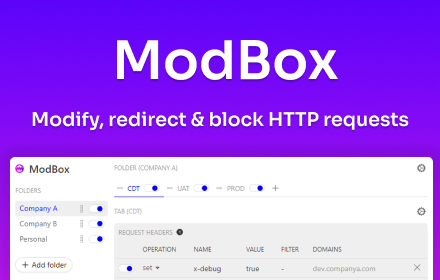
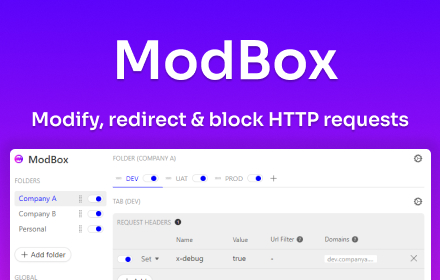
feature: ux cleanup

diff --git a/src/components/Tab.vue b/src/components/Tab.vue
@@ -65,9 +65,7 @@
       <div class="field mb20">
         <label class="field__label">
           Tab request domains
-          <Tooltip>
-            Single or comma separated domains
-          </Tooltip>
+          <Tooltip> Single or comma separated domains </Tooltip>
         </label>
         <input
           class="field__input"
@@ -103,13 +101,16 @@
           <th></th>
           <th>Name</th>
           <th>Value</th>
-          <th>Filter</th>
+          <th>
+            Url Filter
+            <Tooltip>
+              The pattern which is matched against the network request url
+            </Tooltip>
+          </th>
           <th>
             Domains
-            
-            <Tooltip>
-              Single or comma separated domains
-            </Tooltip>
+
+            <Tooltip> Single or comma separated domains </Tooltip>
           </th>
           <th></th>
         </tr>
@@ -126,7 +127,7 @@
             </button>
           </td>
           <td>
-            <Dropdown v-model="header.operation" />
+            <Dropdown v-model="header.operation" :options="operationOptions" />
           </td>
           <td :colspan="header.operation !== 'remove' ? 1 : 2">
             <Editor v-model="header.name" placeholder="Header name" />
@@ -201,11 +202,19 @@
       <table class="table" v-if="tab.responseHeaders?.length">
         <tr>
           <th></th>
-          <th>Operation</th>
+          <th></th>
           <th>Name</th>
           <th>Value</th>
-          <th>Filter</th>
-          <th>Domains</th>
+          <th>
+            Url Filter
+            <Tooltip>
+              The pattern which is matched against the network request url
+            </Tooltip>
+          </th>
+          <th>
+            Domains
+            <Tooltip>Single or comma separated domains</Tooltip>
+          </th>
           <th></th>
         </tr>
         <tr v-for="header in tab.responseHeaders">
@@ -221,7 +230,7 @@
             </button>
           </td>
           <td>
-            <Dropdown v-model="header.operation" />
+            <Dropdown v-model="header.operation" :options="operationOptions" />
           </td>
           <td :colspan="header.operation !== 'remove' ? 1 : 2">
             <Editor v-model="header.name" placeholder="Header name" />
@@ -240,6 +249,7 @@
               v-model="header.condition.requestDomains"
               placeholder="Request domains"
               :fallback="tab.requestDomains"
+              :domains="true"
             />
           </td>
           <td class="table__short text-right">
@@ -295,21 +305,16 @@
       <table v-if="tab.blockedRequests?.length" class="table">
         <tr>
           <th class="table__short"></th>
-          <th>Url Filter</th>
-          <th>Domains</th>
-          <th title="Block document">
-            <svg
-              xmlns="http://www.w3.org/2000/svg"
-              width="16"
-              height="16"
-              fill="currentColor"
-              class="bi bi-ban"
-              viewBox="0 0 16 16"
-            >
-              <path
-                d="M15 8a6.97 6.97 0 0 0-1.71-4.584l-9.874 9.875A7 7 0 0 0 15 8M2.71 12.584l9.874-9.875a7 7 0 0 0-9.874 9.874ZM16 8A8 8 0 1 1 0 8a8 8 0 0 1 16 0"
-              />
-            </svg>
+          <th>Type</th>
+          <th>
+            Url Filter
+            <Tooltip>
+              The pattern which is matched against the network request url
+            </Tooltip>
+          </th>
+          <th>
+            Domains
+            <Tooltip> Single or comma separated domains</Tooltip>
           </th>
           <th class="table__short"></th>
         </tr>
@@ -326,7 +331,14 @@
             </button>
           </td>
           <td>
+            <Dropdown
+              v-model="request.condition.document"
+              :options="blockOptions"
+            />
+          </td>
+          <td>
             <Editor
+              v-if="!request.condition.document"
               v-model="request.condition.urlFilter"
               placeholder="urlFilter"
               :locked="request.condition.document"
@@ -337,27 +349,8 @@
               v-model="request.condition.requestDomains"
               placeholder="Request domains"
               :fallback="tab.requestDomains"
+              :domains="true"
             />
-          </td>
-          <td>
-            <button
-              class="checkbox"
-              @click="request.condition.document = !request.condition.document"
-              :class="{ 'checkbox--active': request.condition.document }"
-            >
-              <svg
-                xmlns="http://www.w3.org/2000/svg"
-                width="16"
-                height="16"
-                fill="currentColor"
-                class="bi bi-check-lg"
-                viewBox="0 0 16 16"
-              >
-                <path
-                  d="M12.736 3.97a.733.733 0 0 1 1.047 0c.286.289.29.756.01 1.05L7.88 12.01a.733.733 0 0 1-1.065.02L3.217 8.384a.757.757 0 0 1 0-1.06.733.733 0 0 1 1.047 0l3.052 3.093 5.4-6.425z"
-                />
-              </svg>
-            </button>
           </td>
           <td class="table__short text-right">
             <button class="btn-icon" @click="deleteBlockRequest(request)">
@@ -408,9 +401,20 @@
       <table v-if="tab.redirectRequests?.length" class="table">
         <tr>
           <th class="table__short"></th>
-          <th>Url Filter</th>
-          <th>Domains</th>
-          <th>Url</th>
+          <th>
+            Url Filter
+            <Tooltip>
+              The pattern which is matched against the network request url
+            </Tooltip>
+          </th>
+          <th>
+            Domains
+            <Tooltip> Single or comma separated domains</Tooltip>
+          </th>
+          <th>
+            Destination
+            <Tooltip> An absolute destination Url </Tooltip>
+          </th>
           <th class="table__short"></th>
         </tr>
         <tr v-for="request in tab.redirectRequests">
@@ -436,6 +440,7 @@
               v-model="request.condition.requestDomains"
               placeholder="Request domains"
               :fallback="tab.requestDomains"
+              :domains="true"
             />
           </td>
           <td>
@@ -498,6 +503,28 @@ const emit = defineEmits(["deleteTab", "cloneTab"]);
 
 const { tab } = toRefs(props);
 const tabName: Ref<HTMLInputElement | null> = ref(null);
+
+const operationOptions = [
+  {
+    label: "Set",
+    value: "set",
+  },
+  {
+    label: "Remove",
+    value: "remove",
+  },
+];
+
+const blockOptions = [
+  {
+    label: "Assets",
+    value: false,
+  },
+  {
+    label: "Domain",
+    value: true,
+  },
+];
 
 /**
  * reactive

diff --git a/src/components/Dropdown.vue b/src/components/Dropdown.vue
@@ -1,28 +1,61 @@
 <template>
   <div ref="root" class="dropdown" :class="{ 'dropdown--open': isOpen }">
     <button @click="toggle" class="dropdown__trigger">
-      {{ model || "set" }}
+      {{ defaultOption?.label }}
       <svg xmlns="http://www.w3.org/2000/svg" width="16" height="16" fill="currentColor" class="bi bi-caret-down-fill" viewBox="0 0 16 16">
         <path d="M7.247 11.14 2.451 5.658C1.885 5.013 2.345 4 3.204 4h9.592a1 1 0 0 1 .753 1.659l-4.796 5.48a1 1 0 0 1-1.506 0z"/>
       </svg>
     </button>
     <div v-show="isOpen" class="dropdown__menu">
-      <button @click="set('set')" class="dropdown__menu__item" :class="{'dropdown__menu__item--active' : model === 'set'}">set</button>
-      <button @click="set('remove')" class="dropdown__menu__item" :class="{'dropdown__menu__item--active' : model === 'remove'}">
-        remove
+      <button v-for="option in options" @click="set(option.value)" class="dropdown__menu__item" :class="{'dropdown__menu__item--active' : model === option.value}">
+        {{ option.label }}
       </button>
     </div>
   </div>
 </template>
 
 <script setup lang="ts">
-import { ref } from "vue";
-import type { Ref } from "vue";
+import { ref, toRefs, computed } from "vue";
+import type { Ref, PropType } from "vue";
 
 const model = defineModel();
 const root: Ref<HTMLElement | null> = ref(null);
 const isOpen = ref(false);
 
+interface Option {
+  label: string,
+  value: string | boolean
+}
+
+const props = defineProps({
+  options: {
+    type:  Array as PropType<Option[]>,
+    required: true
+  }
+});
+
+const propRefs = toRefs(props);
+const options = propRefs.options;
+
+const defaultOption = computed(() => {
+  // if(!options) {
+  //   return {
+  //     label: "empty",
+  //     value: "empty"
+  //   }
+  // }
+  // console.log(model.value);
+  if(typeof model.value !== "undefined" && model.value !== "") {
+    return options.value.find(option => option.value === model.value)
+  }
+  
+  return options.value[0]
+
+  // return {
+  //     label: "empty",
+  //     value: "empty"
+  //   }
+})
 
 /**
  * functions
@@ -49,7 +82,7 @@ function outsideClick(e: any) {
   }
 }
 
-function set(val: string) {
+function set(val: string | boolean) {
   model.value = val;
   isOpen.value = false;
 }

diff --git a/src/style.scss b/src/style.scss
@@ -332,7 +332,9 @@ a {
   position: relative;
 
   &--large {
-    padding: 20px;
+    padding: 10px;
+    background-color: transparent;
+    border: 1px solid #ddd;
   }
   
   &__close {
@@ -689,6 +691,7 @@ a {
     text-align: left;
     padding-bottom: 10px;
     border-bottom: 1px solid #ddd;
+    white-space: nowrap;
 
     a {
       color: #333;
@@ -744,7 +747,7 @@ a {
     color: #333;
     cursor: pointer;
     transition: all ease 0.2s;
-    padding: 6px 0;
+    padding: 4px 0;
     background: transparent;
     text-align: left;
     display: block;
@@ -867,6 +870,7 @@ a {
   position: relative;
   display: inline-block;
   vertical-align: middle;
+  white-space: wrap;
 
   &__trigger {
     display: inline-block;
@@ -881,8 +885,8 @@ a {
     // line-height: 12px;
     cursor: pointer;
     vertical-align: middle;
-    fill:#000;
-    width: 14px;
+    fill: #666;
+    width: 12px;
     margin: -4px 0 0 2px;
   }
 

diff --git a/src/utils.ts b/src/utils.ts
@@ -96,7 +96,8 @@ export function generateRules(data: DataType) {
                   ...(request.condition.urlFilter !== "" && { urlFilter: request.condition.urlFilter }),
                   ...(request.condition.requestDomains && { requestDomains: parseDomains(request.condition.requestDomains) }),
                   ...(!request.condition.requestDomains && tab.requestDomains && { requestDomains: parseDomains(tab.requestDomains) }),
-                  ...(request.condition.document && { resourceTypes: ["main_frame"] }),
+                  ...(!request.condition.document && { resourceTypes: ["stylesheet", "script", "image", "font", "object", "xmlhttprequest", "ping", "csp_report", "media", "websocket", "webtransport", "webbundle", "other"] }),
+                  ...(request.condition.document && { resourceTypes: ["main_frame", "sub_frame"] }),
                 },
               });
 

diff --git a/src/App.vue b/src/App.vue
@@ -131,7 +131,7 @@
           <div class="panel panel--large">
             <h3 class="mb10">About</h3>
             <p class="mb20">
-              ModBox is a hobby project with the aim of providing developers and hackers with a tool for testing and debugging.  The inspiration was being let down by similar projects with nefarious intension.
+              ModBox is a hobby project with the aim of providing developers and hackers with a tool for testing and debugging.
             </p>
 
             <div class="panel__actions">

diff --git a/src/components/Editor.vue b/src/components/Editor.vue
@@ -35,6 +35,7 @@
       >
         {{ cleanDomain(domain) }}
       </button>
+      
       <button v-if="!splitDomains.length" @click="edit" class="editor__trigger">
         -
         <svg
@@ -106,7 +107,12 @@ const splitDomains = computed(() => {
     return [];
   }
 
+  // 
+
   if(model.value === "" && typeof fallback?.value === "string") {
+    if(fallback?.value === "") {
+      return [];
+    }
     return fallback.value.split(",")
   }
 
